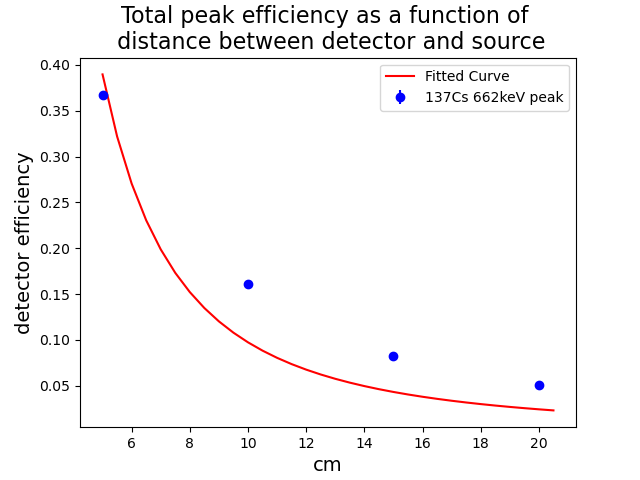
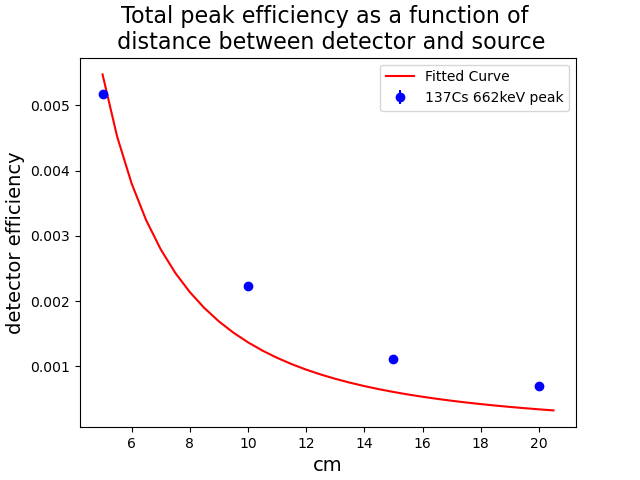
fiksa problem i 4a

diff --git a/session4a/post.py b/session4a/post.py
@@ -2,12 +2,11 @@ import numpy as np
 import matplotlib.pyplot as plt
 
 # area under gaussian
-def events(amp,sigma):
-    return amp*sigma*((2*np.pi)**0.5)
+def events(amp):
+    return amp # turns out we are using a function that is already normalized
 
-def events_err(amp,amp_err,sigma,sigma_err):
-    N = events(amp,sigma)
-    return N*np.sqrt((amp_err/amp)**2+(sigma_err/sigma)**2)
+def events_err(amp_err):
+    return amp_err # turns out we are using a function that is already normalized
 
 def solid_angle(a,d):
     return 2*np.pi*(1-d/np.sqrt(d**2+a**2))
@@ -19,8 +18,8 @@ def epsilon_tot(N,A,t,I):
     return N/(A*t*I)
 
 def epsilon_tot_err(epsilon_tot,amp,amp_err,sigma,sigma_err):
-    N_err = events_err(amp,amp_err,sigma,sigma_err)
-    N = events(amp,sigma)
+    N_err = events_err(amp_err)
+    N = events(amp)
     return epsilon_tot*N_err/N
 
 def epsilon_int(N,A,t,I,d,a):
@@ -66,7 +65,7 @@ tot_eff_dist = []
 tot_eff_dist_errs = []
 for i in range(len(distances)):
     A = activity(A0s[0],dts[0],T2s[0])*3.7*10**4 # calculate acitvity for 137Cs # convert from microCurie to disintegrations/sec
-    N = events(amps[i],sigmas[i])
+    N = events(amps[i])
     tot_eff = epsilon_tot(N,A,ts_dist[i],0.8501)
     tot_eff_dist.append(tot_eff)
     tot_eff_dist_err = epsilon_tot_err(tot_eff,amps[i],amp_errs[i],sigmas[i],sigma_errs[i])
@@ -118,7 +117,7 @@ conversion_factors = [10**3,10**3,3.7*10**4,10**3,10**3]
 tekst = [] # re-initialize tekst
 for i in range(len(Es)):
     A = activity(A0s[source_indices[i]],dts[source_indices[i]],T2s[source_indices[i]])*conversion_factors[i]# calculate acitvity for sources, convert to disintegrations/sec
-    N = events(amps[i],sigmas[i])
+    N = events(amps[i])
     tot_eff = epsilon_tot(N,A,ts_all[i],Is[i])
     tot_eff_all.append(tot_eff)
     tot_eff_err = epsilon_tot_err(tot_eff,amps[i],amp_errs[i],sigmas[i],sigma_errs[i])
@@ -132,10 +131,11 @@ np.savetxt('int_eff.txt', tekst, fmt='%s')
 
 xdata = np.arange(0,1400,100)
 popt, pcov = curve_fit(my_function3, np.array(Es),np.array(tot_eff_all))
-plt.plot(xdata, my_function3(xdata, *popt), color='red', label='Fitted Curve')
-plt.errorbar(Es, tot_eff_all, yerr=tot_eff_all_errs, fmt='o', color='blue')
+plt.plot(xdata, my_function3(xdata, *popt), color='red', label='Fitted line')
+plt.errorbar(Es, tot_eff_all, yerr=tot_eff_all_errs, fmt='o', color='blue', label='energy peaks')
 plt.title("Total peak efficiency as a function of energy",fontsize=16)
 plt.xlabel("keV",fontsize=14)
 plt.ylabel("detector efficiency",fontsize=14)
+plt.legend()
 plt.savefig("figures/tot_peak_eff_all.png")
 plt.close()
